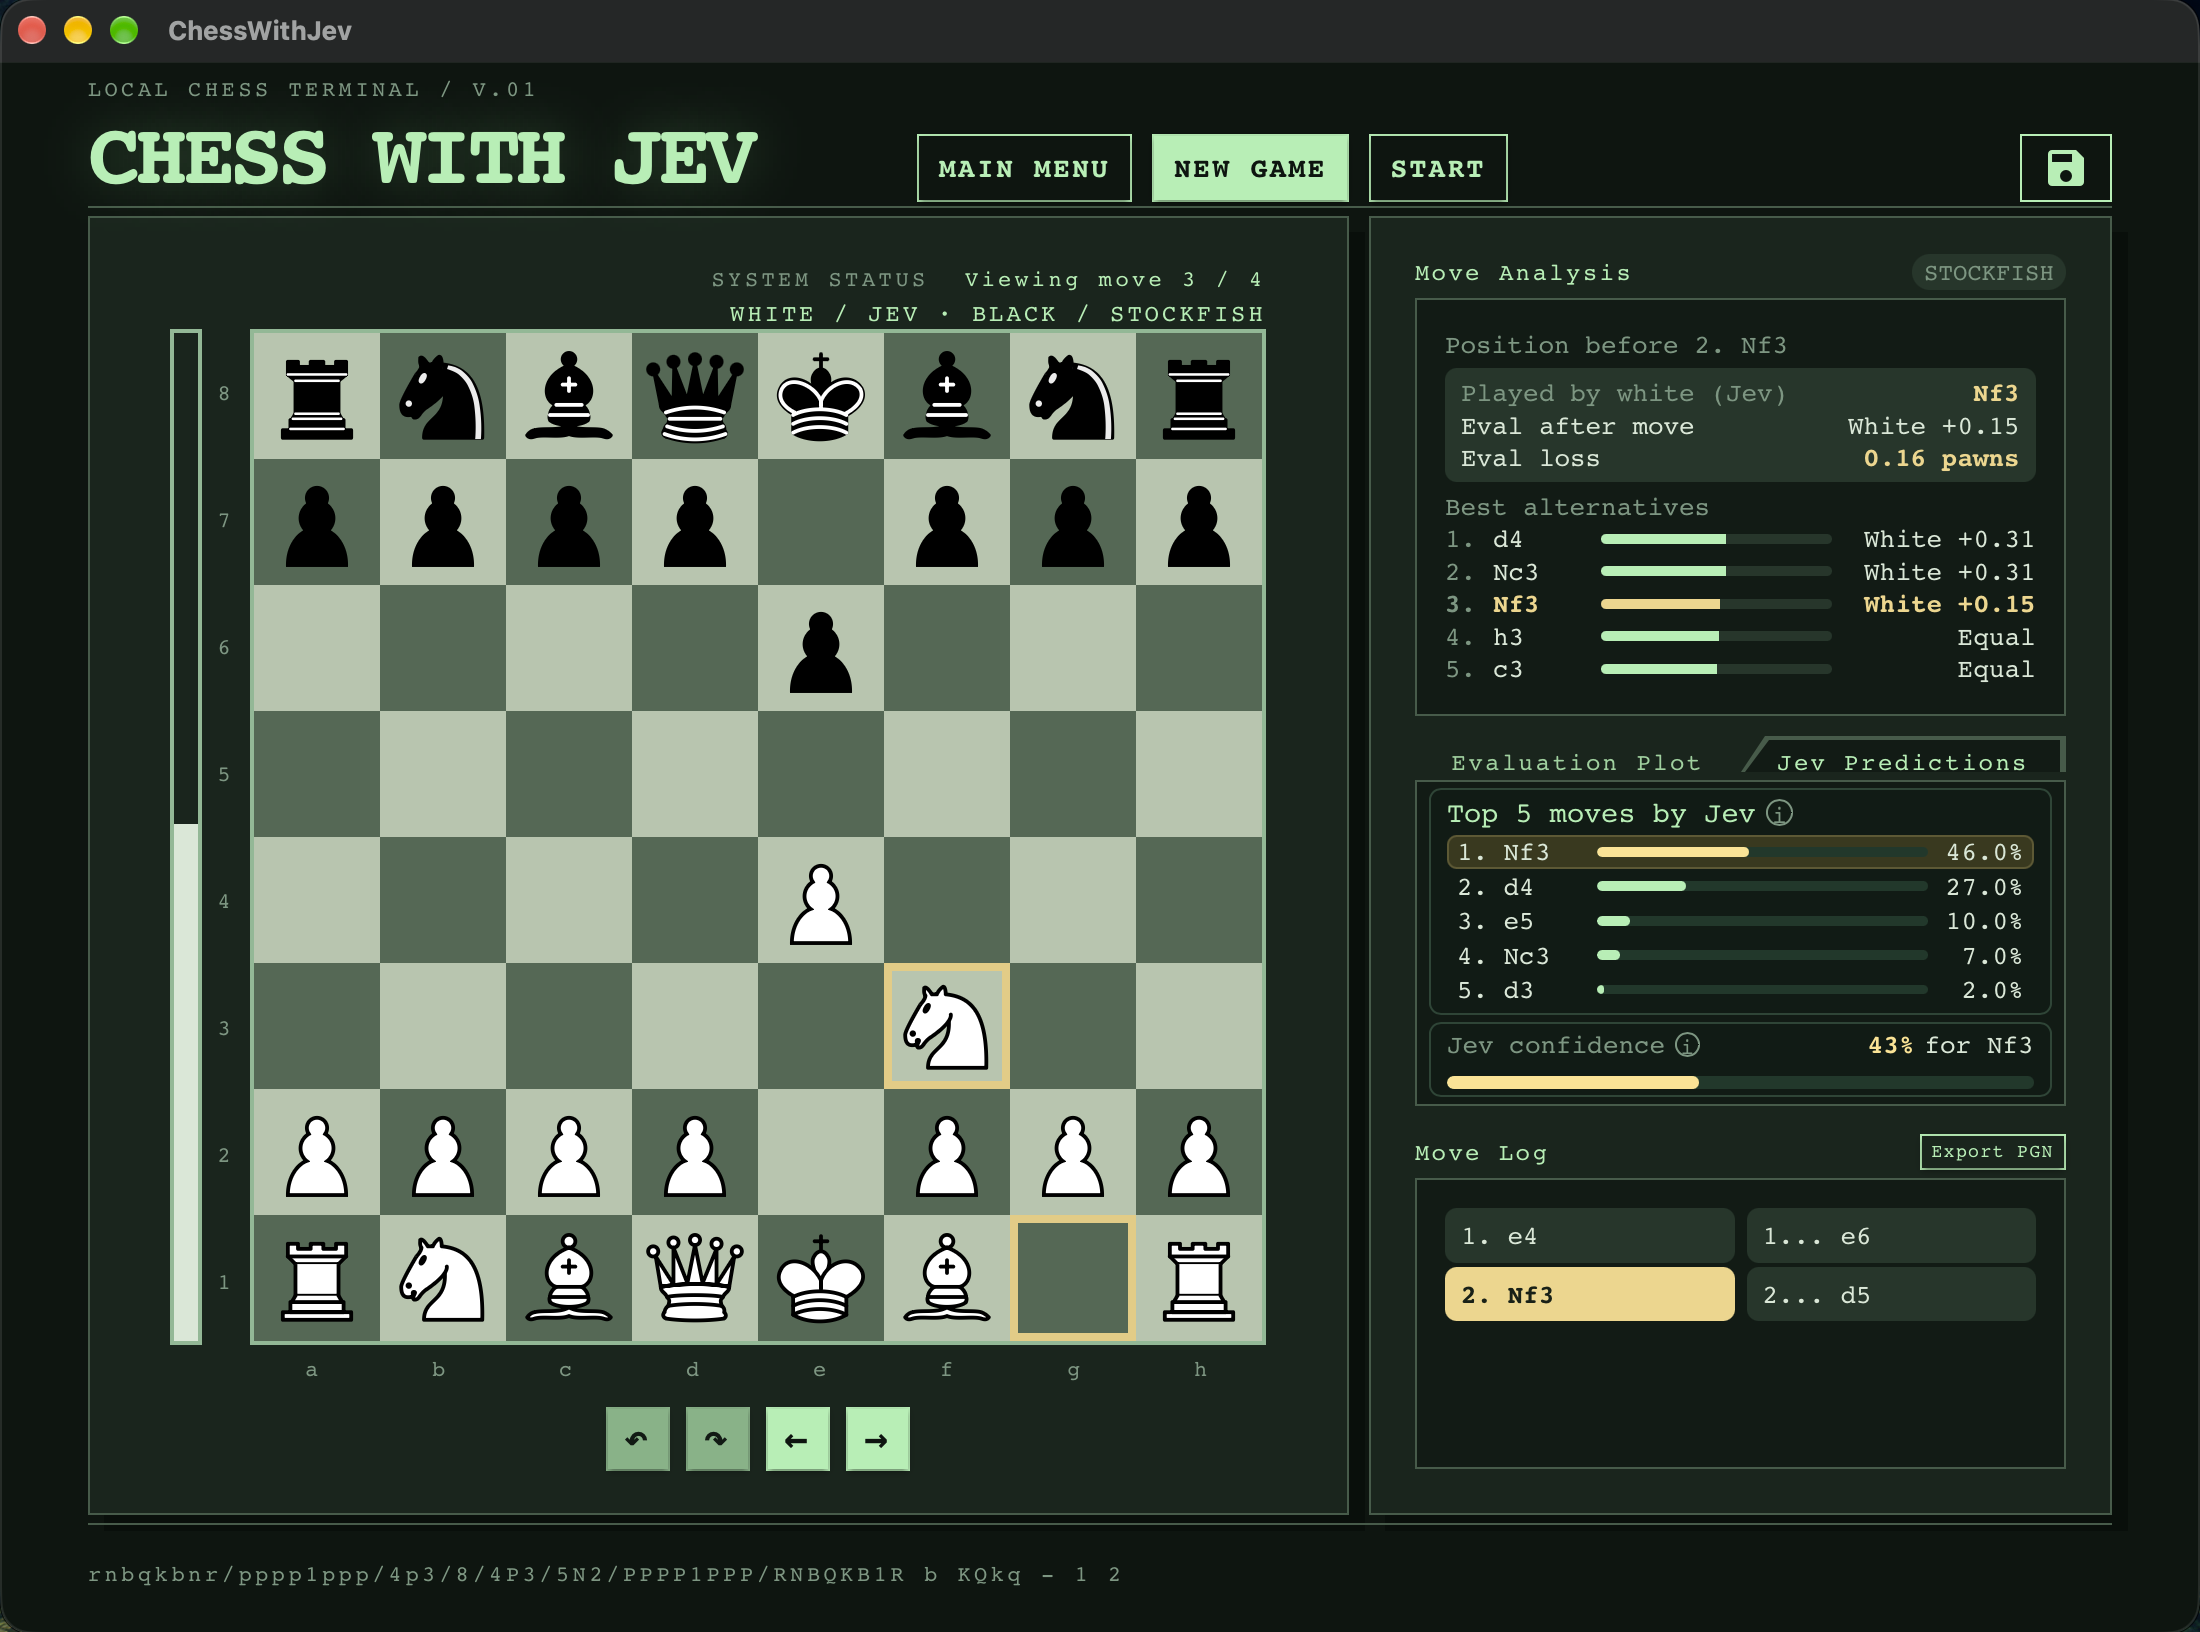
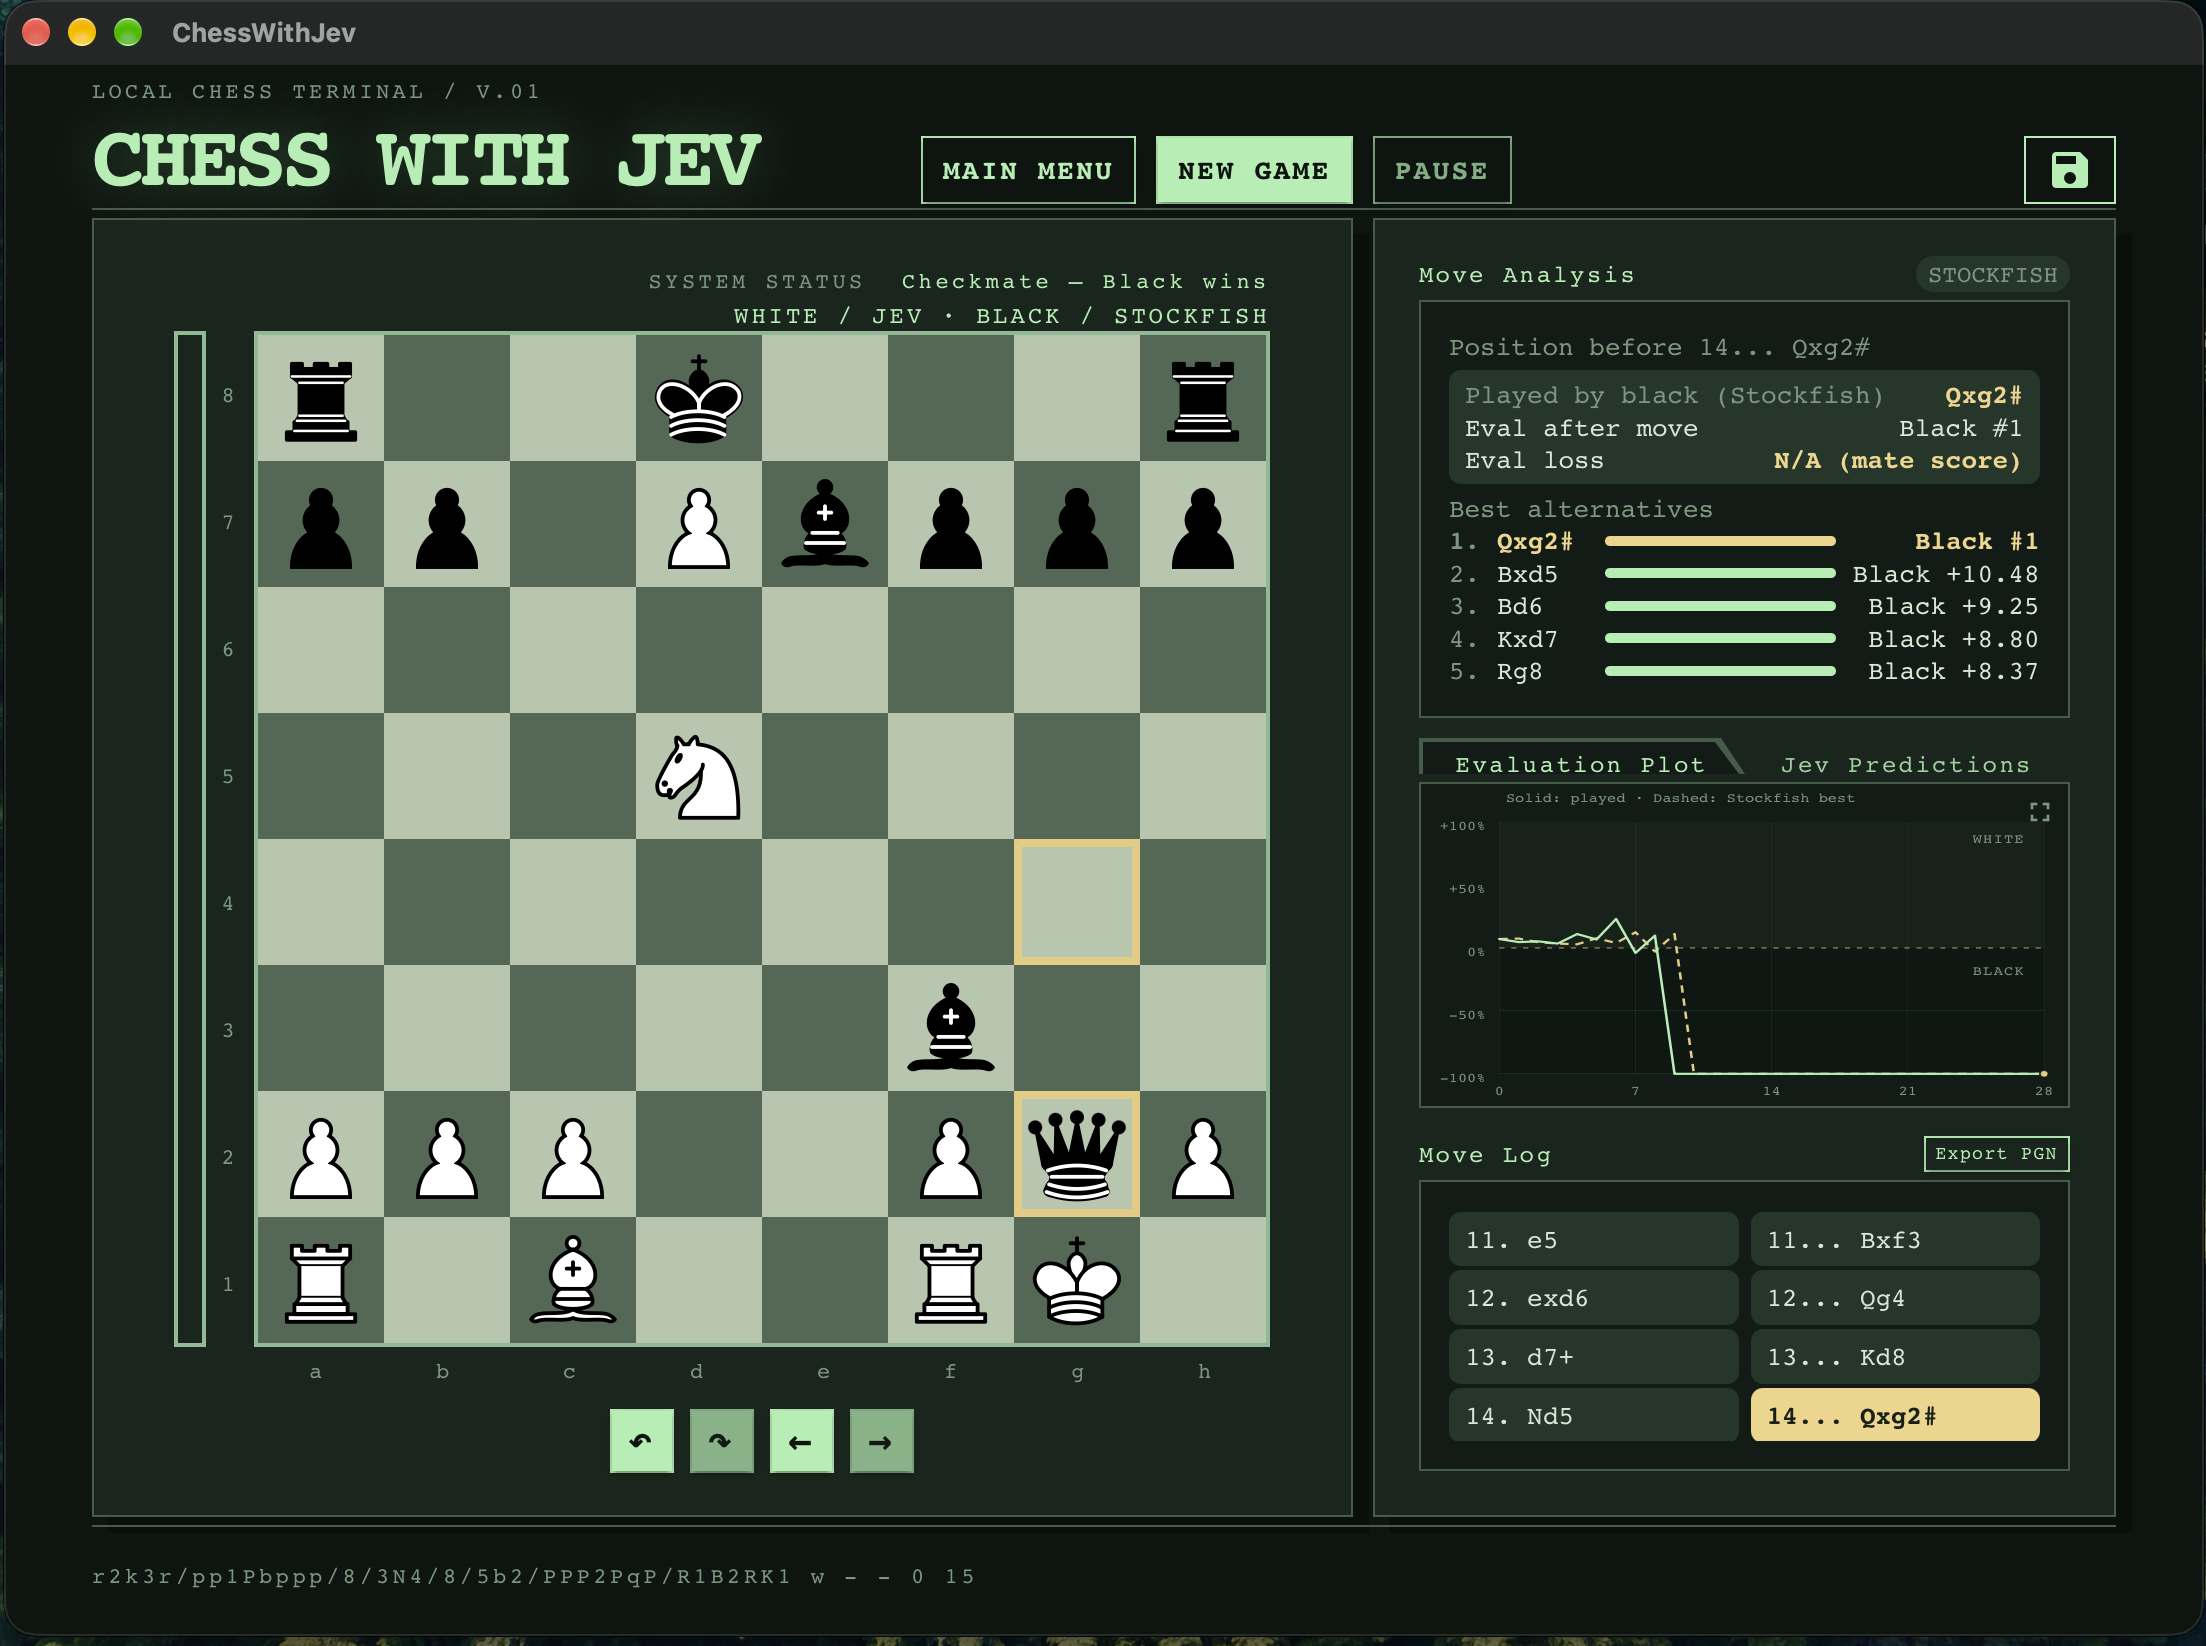
gameplay image update and game PGN update

diff --git a/docs/chess.html b/docs/chess.html
@@ -41,7 +41,7 @@
       <article class="chess-article">
         <header class="article-heading"><h1>ChessWithJev</h1><p class="lead">Exploring AI Decision-Making Through Chess</p></header>
         <figure class="article-image"><img src="./support/banner.png" width="2051" height="767" alt="Chess with Jev — Play, analyse, and explore how Jev plays." fetchpriority="high" /><figcaption><a class="banner-repo-link" href="https://github.com/iamvineeth23/ChessWithJev"><svg width="16" height="16" fill="currentColor" viewBox="0 0 24 24" aria-hidden="true"><path d="M12 2a10 10 0 0 0-3.2 19.5c.5.1.7-.2.7-.5v-1.8c-2.8.6-3.4-1.2-3.4-1.2-.5-1.2-1.1-1.5-1.1-1.5-.9-.6.1-.6.1-.6 1 .1 1.5 1 1.5 1 .9 1.5 2.4 1.1 3 .8.1-.6.4-1.1.7-1.3-2.3-.3-4.7-1.1-4.7-5A3.9 3.9 0 0 1 6.7 8c-.1-.3-.5-1.3.1-2.8 0 0 .9-.3 2.9 1.1a10 10 0 0 1 5.2 0c2-1.4 2.9-1.1 2.9-1.1.6 1.5.2 2.5.1 2.8a3.9 3.9 0 0 1 1.1 2.7c0 3.9-2.4 4.7-4.7 5 .4.3.7.9.7 1.8V21c0 .3.2.6.7.5A10 10 0 0 0 12 2Z" /></svg><span>ChessWithJev</span></a></figcaption></figure>
-        <p>I recently made public my repository <a href="https://github.com/iamvineeth23/ChessWithJev"><svg width="16" height="16" fill="currentColor" style="vertical-align: -.15em; margin-right: .3em;" viewBox="0 0 24 24" aria-hidden="true"><path d="M12 2a10 10 0 0 0-3.2 19.5c.5.1.7-.2.7-.5v-1.8c-2.8.6-3.4-1.2-3.4-1.2-.5-1.2-1.1-1.5-1.1-1.5-.9-.6.1-.6.1-.6 1 .1 1.5 1 1.5 1 .9 1.5 2.4 1.1 3 .8.1-.6.4-1.1.7-1.3-2.3-.3-4.7-1.1-4.7-5A3.9 3.9 0 0 1 6.7 8c-.1-.3-.5-1.3.1-2.8 0 0 .9-.3 2.9 1.1a10 10 0 0 1 5.2 0c2-1.4 2.9-1.1 2.9-1.1.6 1.5.2 2.5.1 2.8a3.9 3.9 0 0 1 1.1 2.7c0 3.9-2.4 4.7-4.7 5 .4.3.7.9.7 1.8V21c0 .3.2.6.7.5A10 10 0 0 0 12 2Z" /></svg><strong>ChessWithJev</strong></a>, a small desktop chess application I built to experiment with how Jev from <a href="https://TypeSafe.ai"><strong>TypeSafe.ai</strong></a> makes decisions in chess.</p>
+        <p>I recently made my repository public: <a href="https://github.com/iamvineeth23/ChessWithJev"><svg width="16" height="16" fill="currentColor" style="vertical-align: -.15em; margin-right: .3em;" viewBox="0 0 24 24" aria-hidden="true"><path d="M12 2a10 10 0 0 0-3.2 19.5c.5.1.7-.2.7-.5v-1.8c-2.8.6-3.4-1.2-3.4-1.2-.5-1.2-1.1-1.5-1.1-1.5-.9-.6.1-.6.1-.6 1 .1 1.5 1 1.5 1 .9 1.5 2.4 1.1 3 .8.1-.6.4-1.1.7-1.3-2.3-.3-4.7-1.1-4.7-5A3.9 3.9 0 0 1 6.7 8c-.1-.3-.5-1.3.1-2.8 0 0 .9-.3 2.9 1.1a10 10 0 0 1 5.2 0c2-1.4 2.9-1.1 2.9-1.1.6 1.5.2 2.5.1 2.8a3.9 3.9 0 0 1 1.1 2.7c0 3.9-2.4 4.7-4.7 5 .4.3.7.9.7 1.8V21c0 .3.2.6.7.5A10 10 0 0 0 12 2Z" /></svg><strong>ChessWithJev</strong></a>, a small desktop chess application I built to experiment with how Jev from <a href="https://TypeSafe.ai"><strong>TypeSafe.ai</strong></a> makes decisions in chess.</p>
         <p>The goal was simple: see how well a general decision-making system behaves when its choices can be objectively evaluated.</p>
         <p>For the project motivation itself, chess happens to be a very convenient environment for this: the board state can be represented precisely, the available actions are deterministic, and the quality of a decision can be compared against a strong traditional chess engine.</p>
         <p>The application supports four player types:</p>
@@ -173,9 +173,9 @@ How strongly does Jev prefer its selected move over the alternatives?</p></block
 [Black &quot;Stockfish-1500&quot;]
 [Result &quot;0-1&quot;]
 
-1. e4 c5 2. Nf3 Nc6 3. Nc3 a6 4. Nd5 e6 5. e5 exd5 6. Nd4 Nxd4 7. e6 Qe7 8. Be2 fxe6 9. O-O Nxe2+ 10. Qxe2 Qf6 11. Qxe6+ dxe6 12. d4 h6 13. dxc5 Bxc5 14. Bxh6 Nxh6 15. Rae1 Ng4 16. Rxe6+ Bxe6 17. Rd1 Qxf2+ 18. Kh1 Qg1+ 19. Rxg1 Rxh2# 0-1
+1. e4 e5 2. Nf3 Nf6 3. d4 exd4 4. Qxd4 d6 5. Qxd6 cxd6 6. Nc3 Bg4 7. Bb5+ Nfd7 8. O-O Nc6 9. Bxc6 Be7 10. Bxd7+ Qxd7 11. e5 Bxf3 12. exd6 Qg4 13. d7+ Kd8 14. Nd5 Qxg2# 0-1
 </code></pre>
-        <figure class="article-image" style="width: 50%; margin-inline: auto;"><img src="./support/gameplay.png" width="2200" height="1632" alt="Chess with Jev gameplay showing the board, Stockfish move analysis, Jev predictions, and move log." loading="lazy" /><figcaption><small>Gameplay screenshot</small></figcaption></figure>
+        <figure class="article-image" style="max-width: 750px; margin-inline: auto;"><img src="./support/gameplay.png" width="2200" height="1632" alt="Chess with Jev gameplay showing the board, Stockfish move analysis, Jev predictions, and move log." loading="lazy" /><figcaption><small>Gameplay screenshot</small></figcaption></figure>
         <h2 class="logging-heading">Logging the games</h2>
         <p>I also wanted the experiments to be reproducible rather than disappearing once a game was over. The application therefore records completed games and their associated analysis.</p>
         <p>The latest game is stored as JSON, while games can also be saved as dated JSON files for later analysis. I am still building the analysis engine to compare between different play modes.</p>
